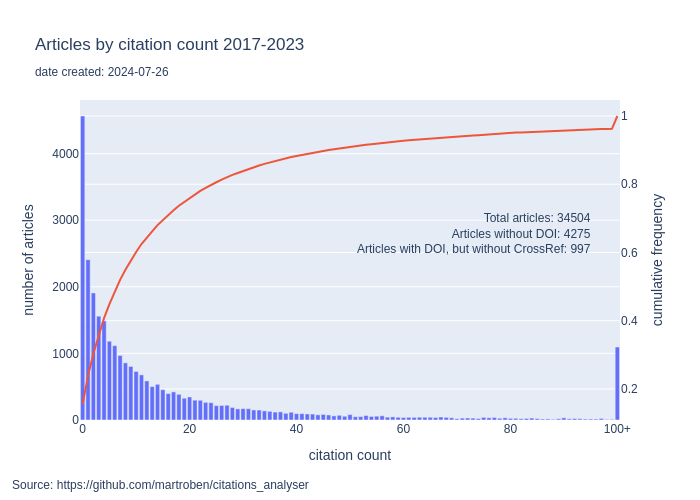
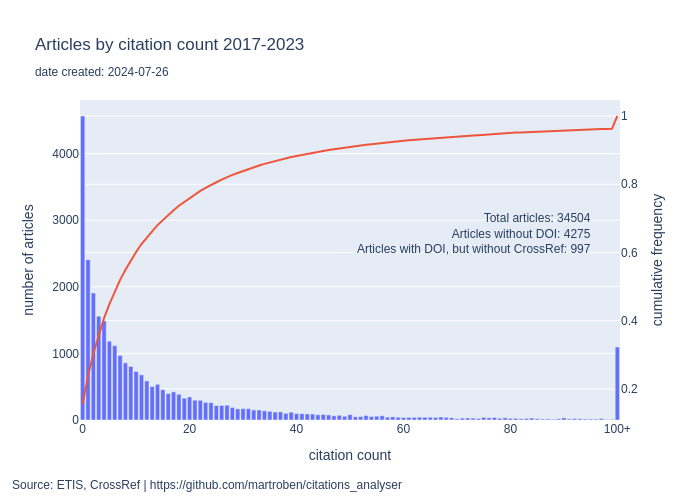
Added clearer description of sources.

Changed region(s): [[0.06, 0.96, 0.57, 0.99]]

diff --git a/analyse_citations.py b/analyse_citations.py
@@ -354,7 +354,7 @@ source_reference_annotation = {
     "y": -0.23,
     "xref": "paper",
     "yref": "paper",
-    "text": f'Source: {SOURCE_REFERENCE}',
+    "text": f'Source: ETIS, CrossRef | {SOURCE_REFERENCE}',
     "showarrow": False,
     "xanchor": "left",
     "yanchor": "bottom"
